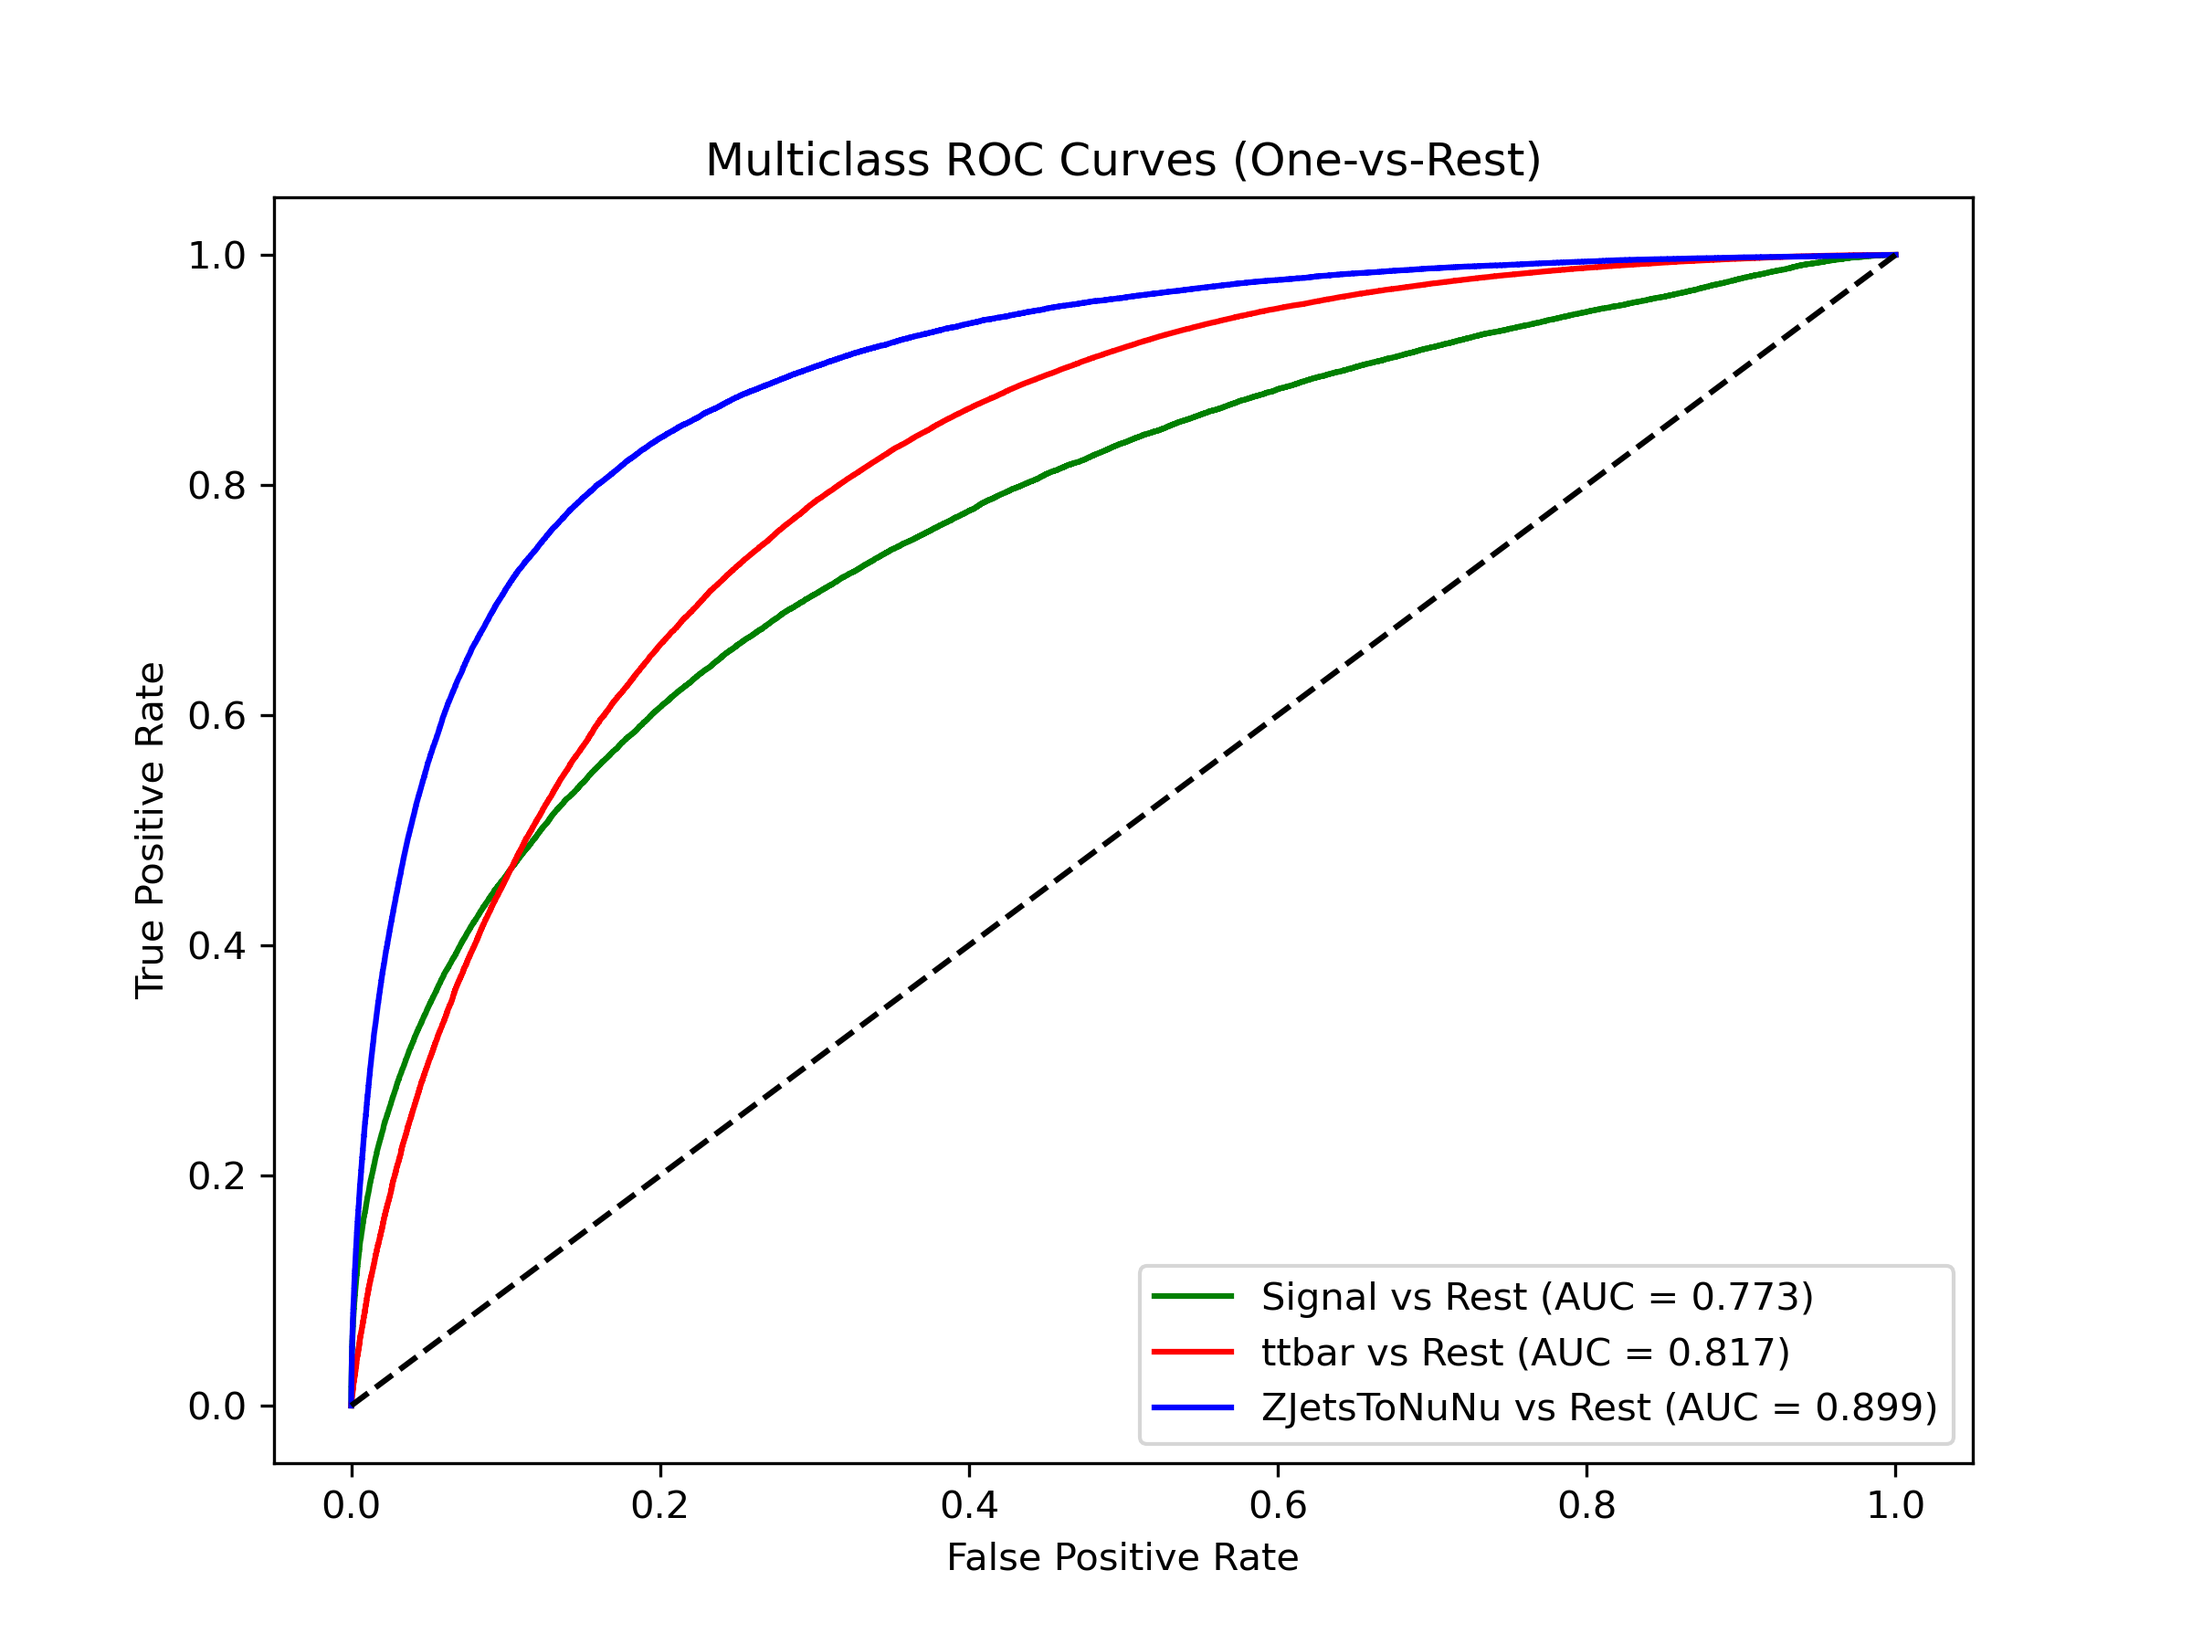
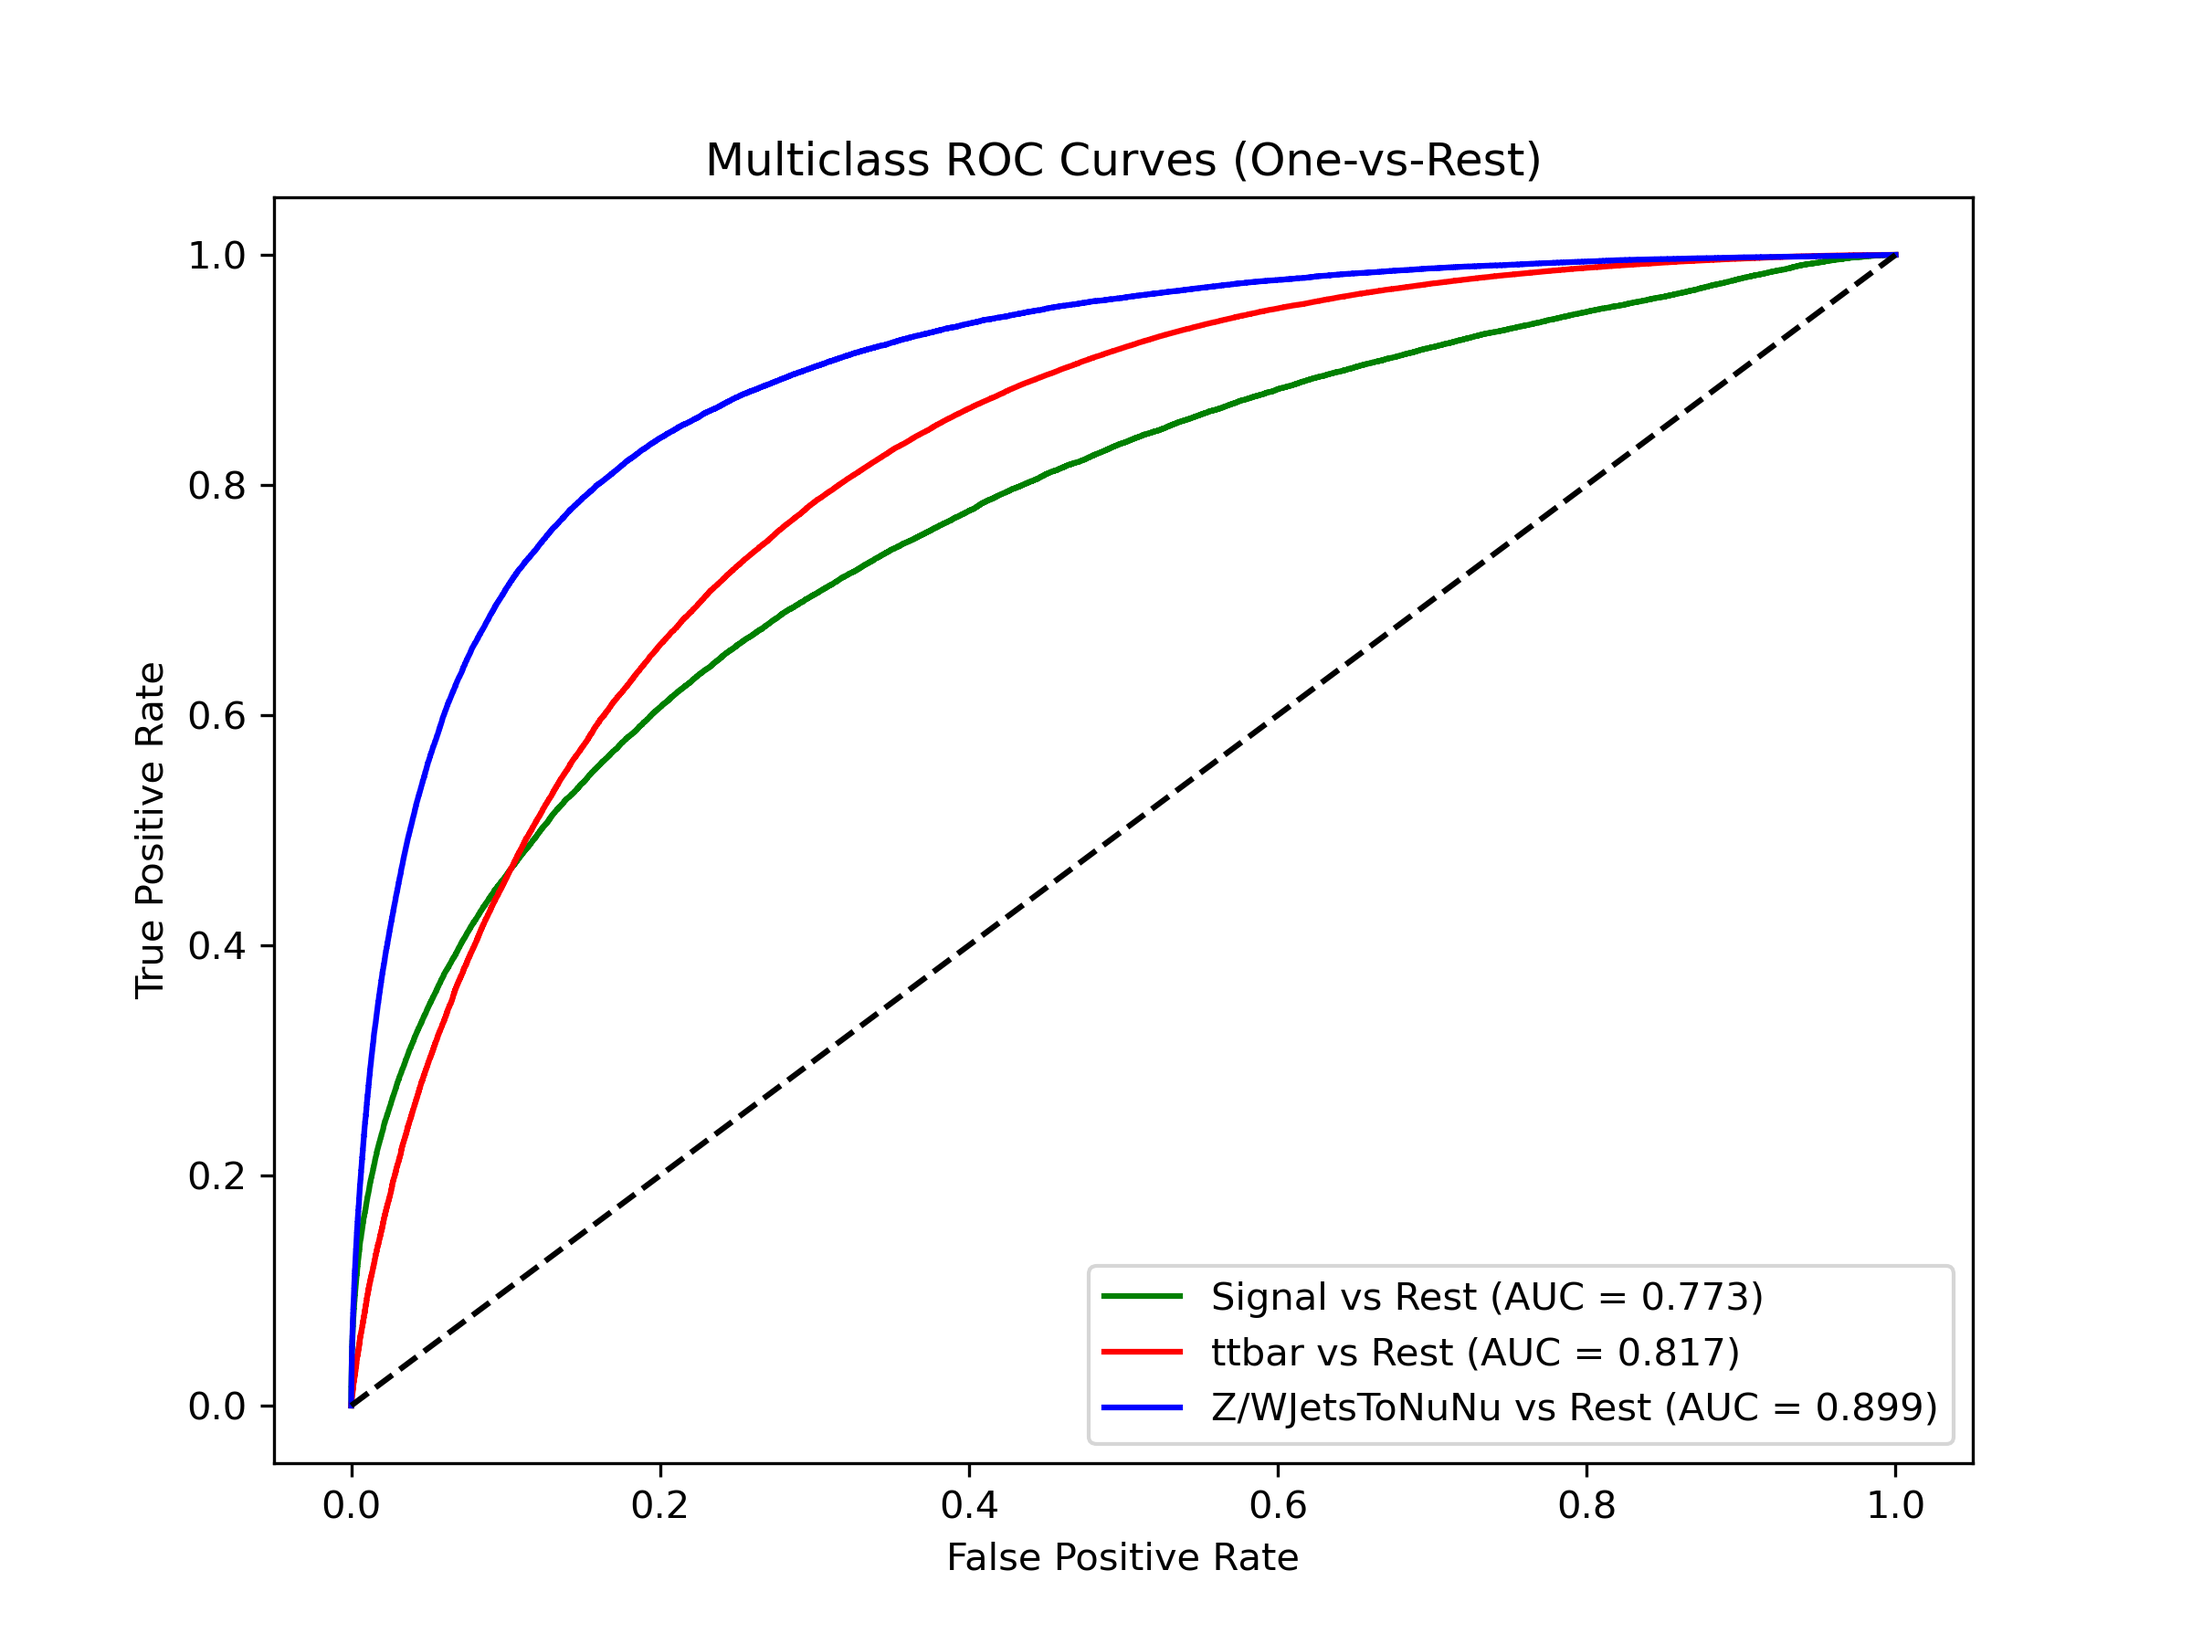
BG: Z/WJets & ttbar updates

Changed region(s): [[0.5, 0.7778, 0.8438, 0.8711]]

diff --git a/transformer_renewed/bristol-tth-transformer-msc_project/src/plotting.py b/transformer_renewed/bristol-tth-transformer-msc_project/src/plotting.py
@@ -145,8 +145,8 @@ def plot_inputs_per_label_multiclassification(inputs, labels, mask, bins, weight
     plt.subplots_adjust(left=0.1,right=0.9,wspace=0.5)
 
     # Define colors and labels
-    colors = ['g', 'r', 'b', 'm']
-    class_names = ['Signal', 'ttbar', 'ZJetsToNuNu', 'WJetsToLNu']
+    colors = ['g', 'r', 'b']
+    class_names = ['Signal', 'ttbar', 'Z/WJetsToNuNu']
 
     for i in range(n_vars):
         bins_var = np.linspace(inputs[...,i].min(),inputs[...,i].max(),bins)
@@ -257,7 +257,7 @@ def plot_multiclass_roc(labels, predictions, outdir=None, show=False):
     # Setup plot
     fig, ax = plt.subplots(figsize=(8,6))
     colors = ['g', 'r', 'b']  # Three colors for three classes
-    class_names = ['Signal', 'ttbar', 'ZJetsToNuNu']  # Three class names
+    class_names = ['Signal', 'ttbar', 'Z/WJetsToNuNu']  # Three class names
     
     # Plot ROC curve for each class vs rest
     for i in range(3):  # Changed from 4 to 3 classes
